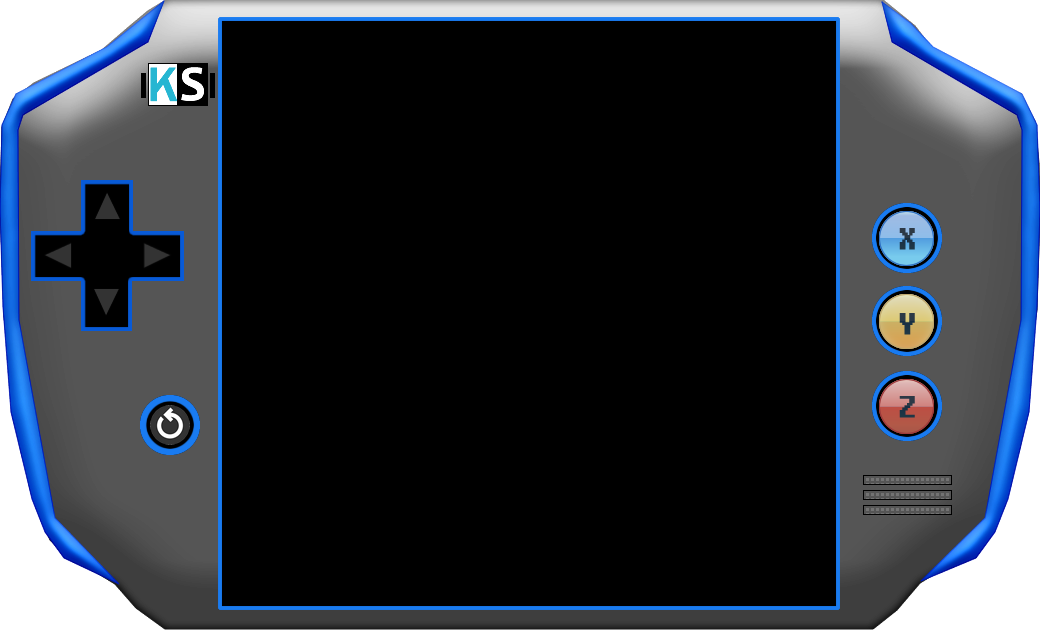
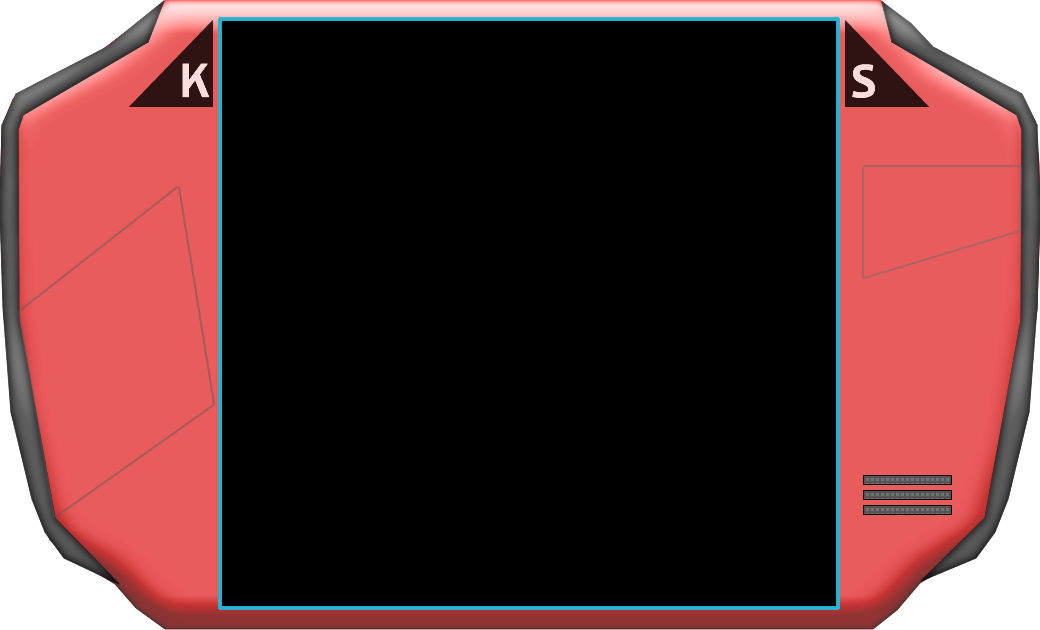
Project v2.0

diff --git a/005Project6_Game_Snake/script.js b/005Project6_Game_Snake/script.js
@@ -16,6 +16,8 @@ const skin3 = new Image();
 skin3.src = "./media/skin3.png";
 const skin4 = new Image();
 skin4.src = "./media/skin4.png";
+const skin5 = new Image();
+skin5.src = "./media/skin5.png";
 const groundEasy = new Image();
 groundEasy.src = "./media/groundEasy.png";
 const groundMedium = new Image();
@@ -240,14 +242,36 @@ let game = setInterval(draw,level);
 window.onload = function() {
     intro.play();
     ctx.drawImage(skin,0,0);
-    //ctx.drawImage(cvsbr,btnRest.x,btnRest.y);
-   // ctxbr.drawImage(btnrestartb,btnRest.x,btnRest.y);
-    
+
+    //skin changer
+    let skinSelector = 0;
+    document.getElementById("btn-skin").addEventListener("click", function(){
+        skinSelector += 1;
+        if( skinSelector == 1){
+            ctx.drawImage(skin2,0,0);
+        }else if(skinSelector == 2){
+            ctx.drawImage(skin3,0,0);
+        }else if(skinSelector == 3){
+            ctx.drawImage(skin4,0,0);
+        }else if(skinSelector == 4){
+            ctx.drawImage(skin5,0,0);
+        }else if(skinSelector == 5){
+            skinSelector = 0;
+            ctx.drawImage(skin,0,0);
+        }
+        if(stage == 1){
+            ctx.drawImage(gameIntro3,224,0);
+        }
+        
    
+        
+    });
     ctx.drawImage(gameIntro,224,0);
     setTimeout(function(){ ctx.drawImage(gameIntro1,224,0); }, 300);
     setTimeout(function(){ ctx.drawImage(gameIntro2,224,0); }, 1000);
     setTimeout(function(){ ctx.drawImage(gameIntro3,224,0); }, 1400);
+    
+    
     //setTimeout(function(){ introGame(); }, 1800);
     stage = 1;
 
@@ -310,4 +334,5 @@ document.getElementById("btn-z").addEventListener("click", function(){
             introGame(level);
     }
 });
+
 

diff --git a/005Project6_Game_Snake/styles.css b/005Project6_Game_Snake/styles.css
@@ -1,7 +1,7 @@
 .body-light{
-    background: #673AB7;  /* fallback for old browsers */
-    background: -webkit-linear-gradient(to right, #512DA8, #673AB7);  /* Chrome 10-25, Safari 5.1-6 */
-    background: linear-gradient(to right, #512DA8, #673AB7); /* W3C, IE 10+/ Edge, Firefox 16+, Chrome 26+, Opera 12+, Safari 7+ */
+    background: #270a58;  /* fallback for old browsers */
+    background: -webkit-linear-gradient(to right, #270a58, #160238);  /* Chrome 10-25, Safari 5.1-6 */
+    background: linear-gradient(to right, #270a58, #160238); /* W3C, IE 10+/ Edge, Firefox 16+, Chrome 26+, Opera 12+, Safari 7+ */
     }
 
 .body-dark{
@@ -127,6 +127,7 @@ button{
         font-size: 18px;
         font-weight: bolder;
         color: azure;
+        display: none;
         }
         .btn-score:hover{
           width: 50px;
@@ -189,7 +190,7 @@ button{
                     background: linear-gradient(to right, #202020, #333333);
                     font-size: 30px;
                     font-weight: bolder;
-                    color: azure;
+                    color: rgb(240, 240, 255);
                     }
                     .btn-x:hover{
                       width: 80px;

diff --git a/005Project6_Game_Snake/index.html b/005Project6_Game_Snake/index.html
@@ -41,7 +41,7 @@
     <script src="https://cdn.jsdelivr.net/npm/bootstrap@4.5.3/dist/js/bootstrap.min.js" integrity="sha384-w1Q4orYjBQndcko6MimVbzY0tgp4pWB4lZ7lr30WKz0vr/aWKhXdBNmNb5D92v7s" crossorigin="anonymous"></script>
     <title>Snake Revolution</title>
 </head>
-<body id="body-app">
+<body id="body-app" class="body-light">
     <!-- HEADER SECTION ->
     <header>
        <!- Image and text ->
